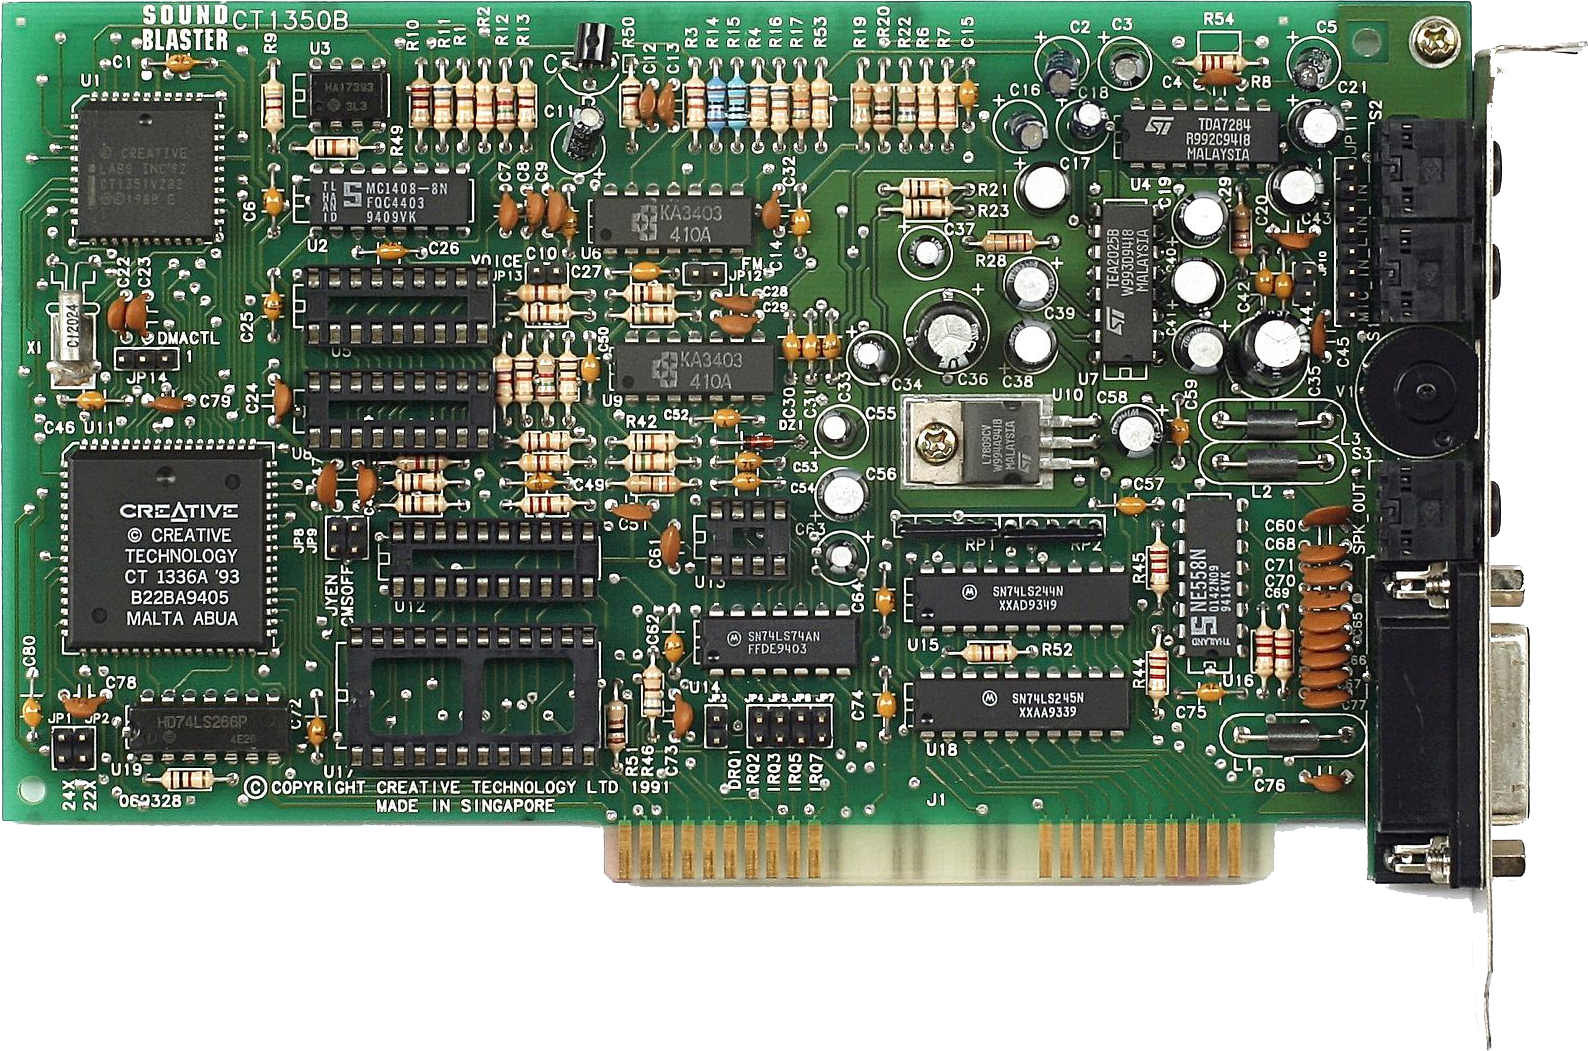
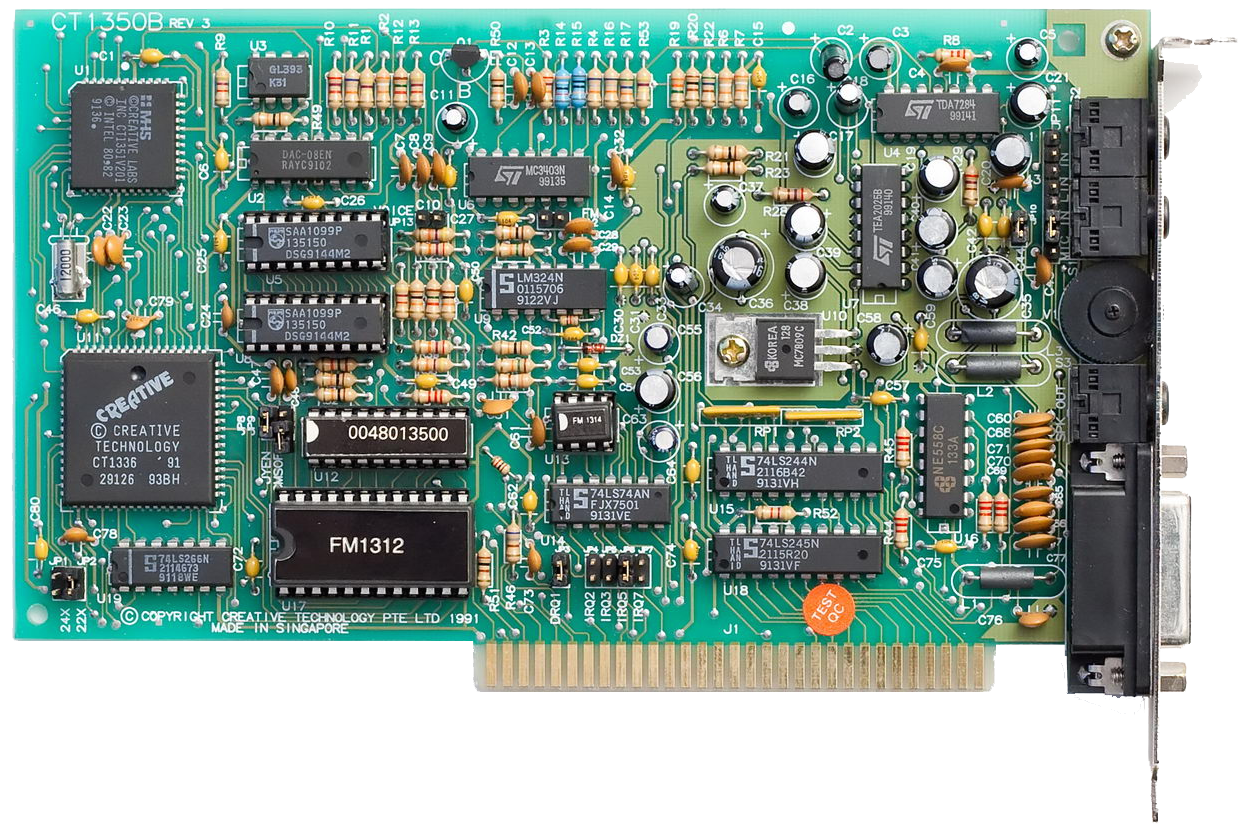
Adjusted SB comments

diff --git a/src/hardware.tex b/src/hardware.tex
@@ -817,19 +817,23 @@ Even though adoption was increasing (Creative would go on selling one million So
 \begin{figure}[H] 
   \centering 
   \fullimage{hardware/sb.png} 
-  \caption{A SoundBlaster 1.0. Notice the 8 bits ISA bus connector.}
+  \caption{A SoundBlaster (v2). }
 \end{figure}
 \par
-  \bu{Trivia :} The numerous qualities of the card over the Adlib made the Sound Blaster the de-facto standard shortly after its release and brought Adlib to bankruptcy\footnote{The reign of the Sound Blaster came to an end with Windows 95 which standardized the programming interface at application level and eliminated the importance of compatibility with Sound Blaster}.
+The above picture is the CT1350B model. Notice the OPL2 chip (labeled FM1312), the big CT1336 bus interface on the center left and the CT1351 DSP on the upper left. Notice the 8 bits ISA bus connector.\\
+\par
+  \bu{Trivia :} The numerous qualities of the card over the Adlib made the Sound Blaster the de-facto standard shortly after its release and eventually brought Adlib to bankruptcy\footnote{The reign of the Sound Blaster came to an end with Windows 95 which standardized the programming interface at application level and eliminated the importance of compatibility with Sound Blaster}.
 
 
   \subsection{Sound Blaster Pro}
-The Sound Blaster Pro had all the capabilities of a Sound Blaster 1.0 but also supported stereo 22.05 kHz playback and 44.1 kHz in mono. It also added a "mixer" to provide a crude master volume control (the round thing on the picture), and a crude high pass or low pass filter. Stereo was achieved with a pair of YM3812 chips (one for each audio channel).\\
+The Sound Blaster Pro had all the capabilities of a Sound Blaster 1.0 but also supported stereo 22.05 kHz playback and 44.1 kHz in mono. It also added a "mixer" to blend audio sources from mic, line in and CD. Stereo was achieved with a pair of YM3812 chips (one for each audio channel).\\
 \begin{figure}[H] 
   \centering 
   \fullimage{hardware/sbpro.png} 
   \caption{A Sound Blaster Pro card.}
 \end{figure}
+The model above is a CT1330A. Notice the double FM1312 chip in the center. The two big chips in the upper left are the DSP (CT1341) and the Mixer. Below, labeled "Creative" is the big CT1316 big bus interface.\\
+\par
 \bu{Trivia :} The card appears to have a 16 bits ISA bus connector (check the difference with a Sound Blaster 1.0). However it does not have 'fingers' for data transfer on the higher "AT" portion of the bus connector. It uses the 16-bit extension to the ISA bus to provide the user with an additional choice for an IRQ (10) and DMA (0)m channel only found on the 16-bit portion of the edge connector.\\
 \par
 \bu{Trivia :} Notice on the very left of the card in black an IDE Data interface to connect a CD-ROM. That was the only way to connect a CD-ROM to a PC back then.
